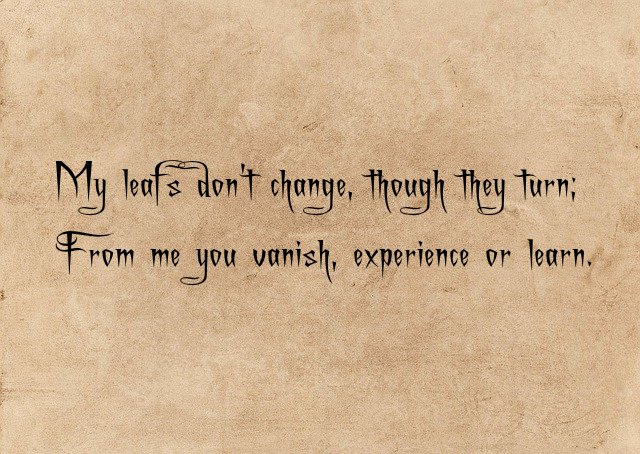
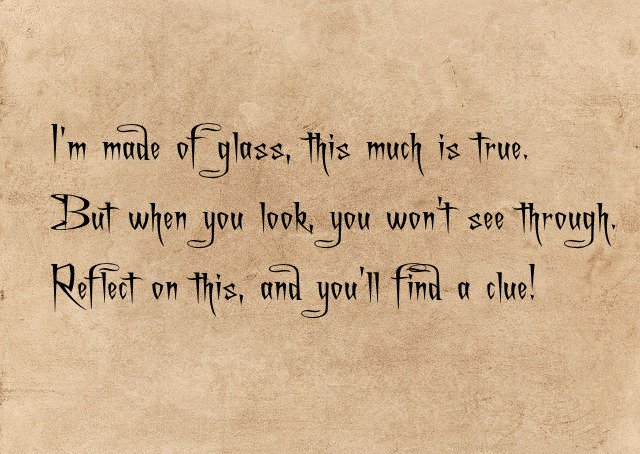
clues

Changed region(s): [[0.0625, 0.2467, 0.9688, 0.7093], [0.7188, 0.2775, 0.8125, 0.37], [0.6875, 0.3084, 0.7188, 0.37]]

diff --git a/components/cabin/compass.js b/components/cabin/compass.js
@@ -1,8 +1,8 @@
 import React from "react";
-import { Easing } from "react-native";
 import { asset, Animated, View, VrButton } from "react-360";
 import Entity from "Entity";
 import { connect } from "react-redux";
+import { disableAllClues } from "../../store/clues";
 let AnimatedEntity = Animated.createAnimatedComponent(Entity);
 class Compass extends React.Component {
   state = {
@@ -16,29 +16,20 @@ class Compass extends React.Component {
     textureAsset: [
       "3d_direction/irregular_stone_wall.png",
       "3d_compass/metal_compass.jpeg"
-    ]
+    ],
+    currentlyDisplayedHint: "clues/chestClue.jpg"
   };
   componentDidMount() {}
-  showEscape = () => {
-    setInterval(() => {
-      this.setState(prev => {
-        const isMaxOrMinValue = prev.fade >= 1.0 || prev.fade <= 0.0;
-        const newIsFading = isMaxOrMinValue ? !prev.isFading : prev.isFading;
-        const newFade = prev.fade + (newIsFading ? -0.04 : 0.04);
-        return {
-          fade: newFade,
-          isFading: newIsFading
-        };
-      });
-    }, 400);
+  handleClicked = () => {
+    this.props.disableClues("chestClue", "compassClue");
   };
   render() {
-    const opacityValue = this.state.fade;
     const finalTaskStatus = this.props.musiscTask.musisctable;
+    const chestClue = this.props.clues.chestClue;
     if (finalTaskStatus) {
       return (
         <View>
-          <VrButton onClick={() => this.showEscape()}>
+          <VrButton onClick={this.handleClicked}>
             {/* //compasss object  */}
             <AnimatedEntity
               source={{
@@ -64,6 +55,19 @@ class Compass extends React.Component {
               }}
             />
           </VrButton>
+          {chestClue ? (
+            <Animated.Image
+              style={{
+                position: "absolute",
+                layoutOrigin: [0.5, 0.5, 0],
+                width: 90,
+                height: 60,
+                transform: [{ translateZ: 170 }, { translateX: 60 }],
+                opacity: 1
+              }}
+              source={asset(this.state.currentlyDisplayedHint)}
+            />
+          ) : null}
         </View>
       );
     } else {
@@ -73,10 +77,18 @@ class Compass extends React.Component {
 }
 const mapStateToProps = state => {
   return {
-    musiscTask: state.tasksCompleted
+    musiscTask: state.tasksCompleted,
+    clues: state.clues
+  };
+};
+
+const mapDispatchToProps = dispatch => {
+  return {
+    disableClues: (cluesToEnable, cluesToDisable) =>
+      dispatch(disableAllClues(cluesToEnable, cluesToDisable))
   };
 };
 export default connect(
   mapStateToProps,
-  null
+  mapDispatchToProps
 )(Compass);

diff --git a/components/cabin/magicPiano.js b/components/cabin/magicPiano.js
@@ -96,7 +96,7 @@ class MagicPiano extends React.Component {
       this.playNoteC
     ],
     glassesTexture: Array(arrOfTextures.length).fill(glassTextureObjRegular),
-    currentlyDiplayedHint: "static_assets/clues/compassClue.jpg",
+    currentlyDiplayedHint: "clues/compassClue.jpg",
     userPattern: [],
     gameStarted: false,
     gameFinished: false,
